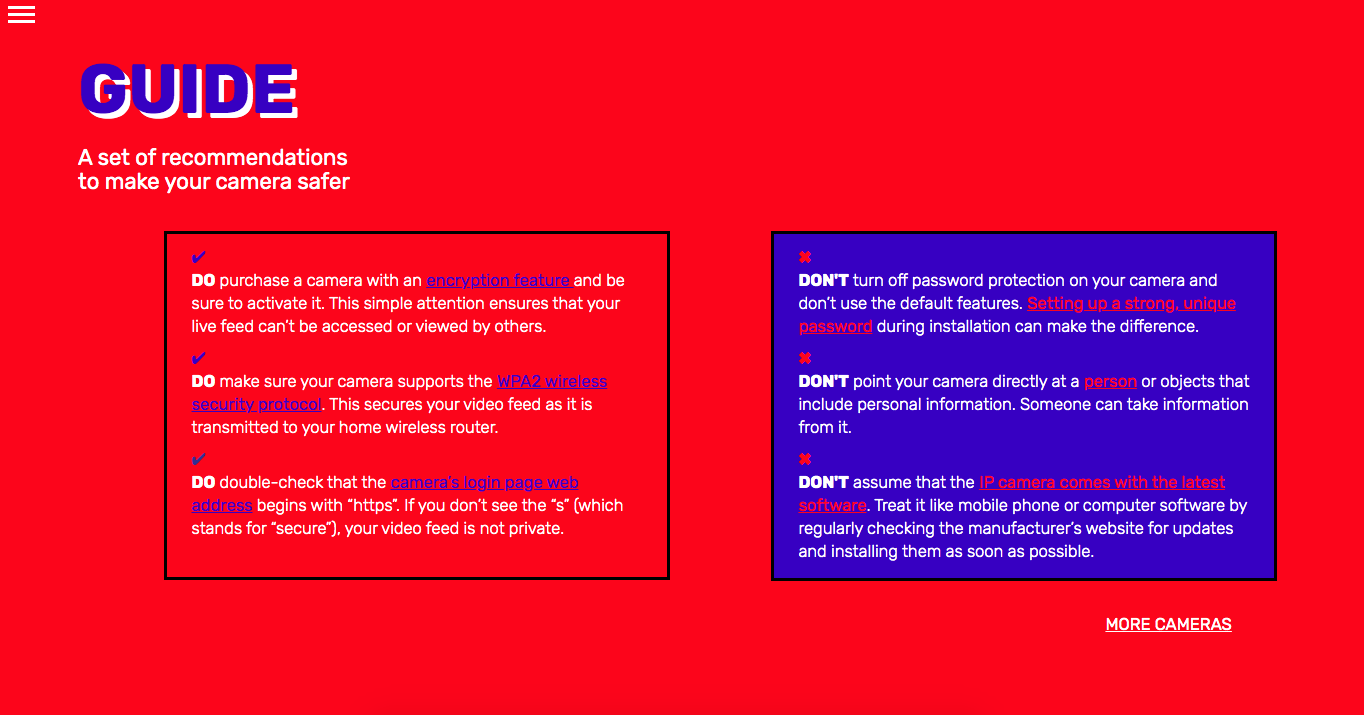
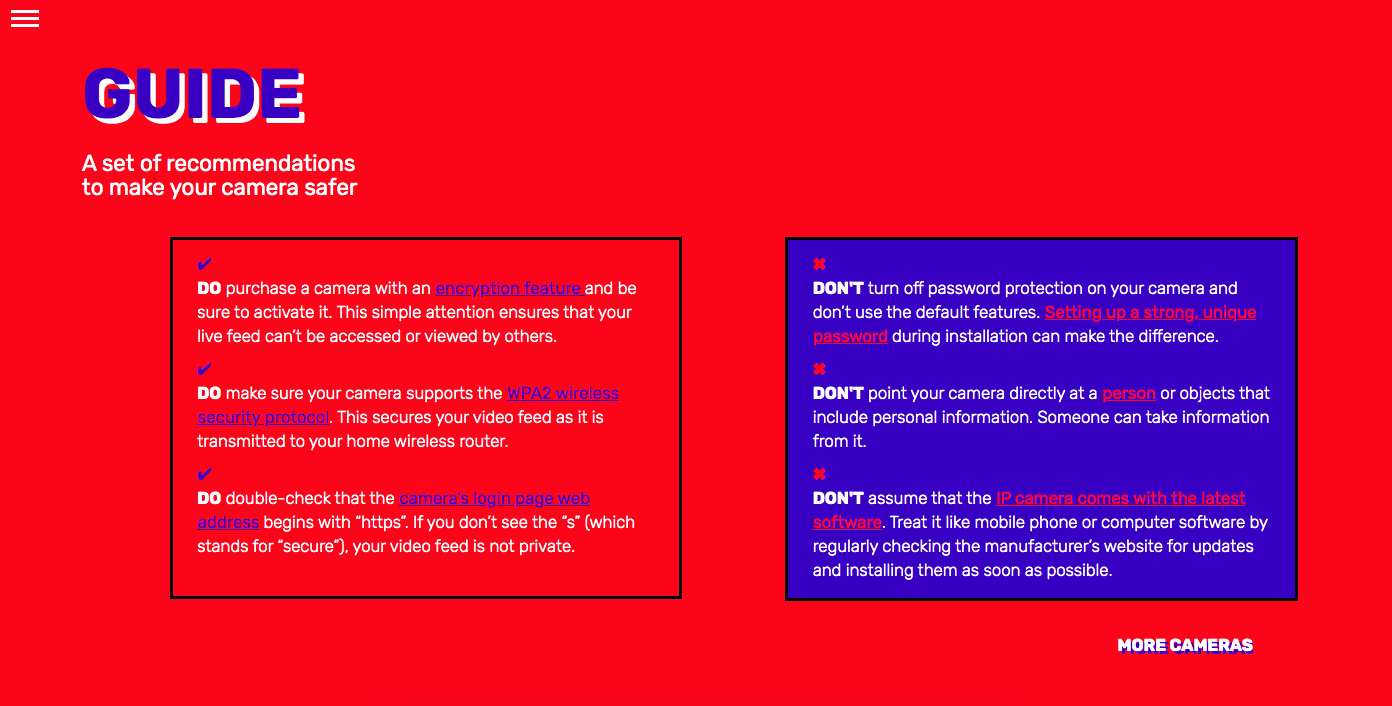
.

diff --git a/css/style.css b/css/style.css
@@ -113,6 +113,19 @@ cursor:pointer;
 
   /*margin-top: 5px; */
 }
+.rectangle2b{
+  border: 0.1% solid black ;
+  padding:0.5%;
+
+
+  -webkit-transition-duration: 0.4s; /* Safari */
+transition-duration: 0.4s;
+background-color: black;
+cursor:pointer;
+
+
+  /*margin-top: 5px; */
+}
 .rectangle2:hover{
   border: 0.3rem solid #ea4637 ;
   color: #ea4637;
@@ -1119,24 +1132,36 @@ html body [data-ca3_iconfont="ETmodules"]::before {
       background-color: #00349C;
     }*/
     .mainpage h2{
-      color: #E11800;
+      color: #D13015;
     }
     .mainpage h3{
-      text-shadow: 0.5rem 0.5rem #E11800;
+      text-shadow: 0.5rem 0.5rem #D13015;
 
     }
     .introguide {
-      background-color: #E11800;
+      /*background-color: #E11800;*/
+background-color: #D13015;
+/*background-color: #D12705;*/
 
     }
     .introabout {
-      background-color: #E11800;
+      background-color: #D13015;
 
     }
+
+    .about{
+      background-color: #D13015;
+
+    }
+
 .fat-nav__wrapper {
-  background-color: #E11800;
+  background-color: #D13015;
 
   }
+  .fat-nav {
+    background-color: #D13015;
+
+    }
 
   #glicth{
     content: url("../images/glitch2.gif"); no-repeat;
@@ -1172,9 +1197,66 @@ html body [data-ca3_iconfont="ETmodules"]::before {
 
   }
   .rectangle{
-    text-shadow: 0.2rem 0.2rem #E11800;
+    text-shadow: 0.3rem 0.3rem #E11800;
 
   }
+
+  .fat-nav ul {
+    display: table-cell;
+    vertical-align: left;
+    margin: 40;
+    padding-top: 1%;
+    margin-top: 1%;
+    font-family: 'Rubik', sans-serif;
+    font-weight: 600;
+
+
+  }
+
+  .fat-nav li {
+    list-style-type: none;
+    text-align: left;
+    padding-left: 5%;
+    font-size: 5vw;
+    padding-top: 1%;
+    margin-top: 0.01%;
+    font-family: 'Rubik', sans-serif;
+
+
+
+  }
+
+  .footer{
+    background-color: #D13015;
+
+  }
+  .ca3-scroll-down-arrow {
+  	background-image: url("../images/seta2red2.png");
+
+  }
+  .rectangle2:hover{
+    border: 0.3rem solid #D13015 ;
+    color: #D13015;
+
+  }
+  .rectangle4:hover{
+    border: 0.3rem solid #D13015 ;
+    color: #D13015;
+    position: relative;
+               top: -0.5rem;
+  }
+
+  #recblue2 a{
+
+  color: #D13015;
+
+  }
+.rectangle2b{
+  content: url("../images/guide2.png");
+  border: 0.1% solid black ;
+
+}
+
 }
 
 /*menu*/
@@ -1271,8 +1353,8 @@ html body [data-ca3_iconfont="ETmodules"]::before {
   -webkit-overflow-scrolling: touch;
 }
 .fat-nav__wrapper {
-  width: 80%;
-  height: 60%;
+  width: 100%;
+  height: 100%;
   display: table;
   table-layout: fixed;
 }

diff --git a/guide.html b/guide.html
@@ -76,7 +76,7 @@
                 target="_blank">encryption feature </a> and be sure to activate it. This simple attention ensures that your live feed can’t be accessed or viewed by others.</p>
             <p><span style="color:#1a1dbf;">✔</span><br><b>DO</b> make sure your camera supports the <a href="https://www.cyberpunk.rs/wireless-security-protocols-wep-wpa-wpa2-and-wpa3" target="_blank">WPA2 wireless security protocol</a>. This
               secures your video feed as it is transmitted to your home wireless router. </br></p>
-            <p><span style="color:#2a3d90;">✔</span><br><b>DO</b> double-check that the <a href="https://www.consumer.ftc.gov/articles/0382-using-ip-cameras-safely" target="_blank">camera’s login page web address</a> begins with “https”. If you
+            <p><span style="color:#1a1dbf;">✔</span><br><b>DO</b> double-check that the <a href="https://www.consumer.ftc.gov/articles/0382-using-ip-cameras-safely" target="_blank">camera’s login page web address</a> begins with “https”. If you
               don’t see the “s” (which stands for “secure”), your video feed is not private. <br></p>
           </div>
           <div class="col-md-offset-1 col-xs-5" id="recblue2">

diff --git a/about.html b/about.html
@@ -263,7 +263,7 @@
             <h2>SECURITY GUIDE</h2>
             <p>In order to further inform the audience against unauthorized access of cameras, we developed a list of security advises to prevent this situations. Simple tips as putting a strong password or to not use the one that comes by default,
               can reduce the risk of data breach and security.</p>
-            <br><img class="rectangle2" src="images/guide.png" style="width:70%;height:70%;">
+            <br><img  class="rectangle2b" src="images/guide.png" style="width:70%;height:70%;" >
             <p>This guide will appear directly when the video of the call finish, allowing the audience to check the best ways to protect their cameras.</p><br><br><br><br><br>
 
 
